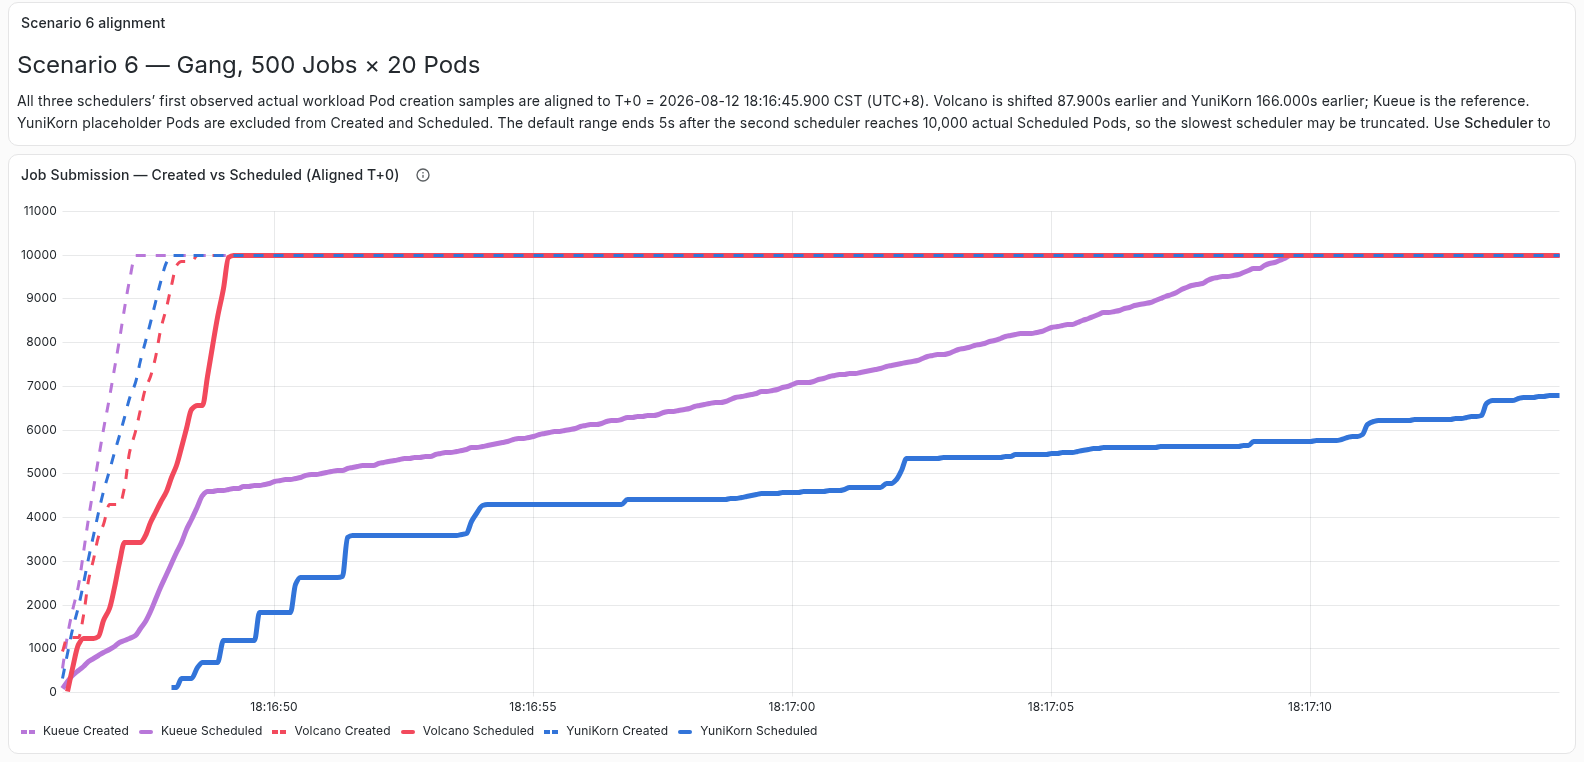
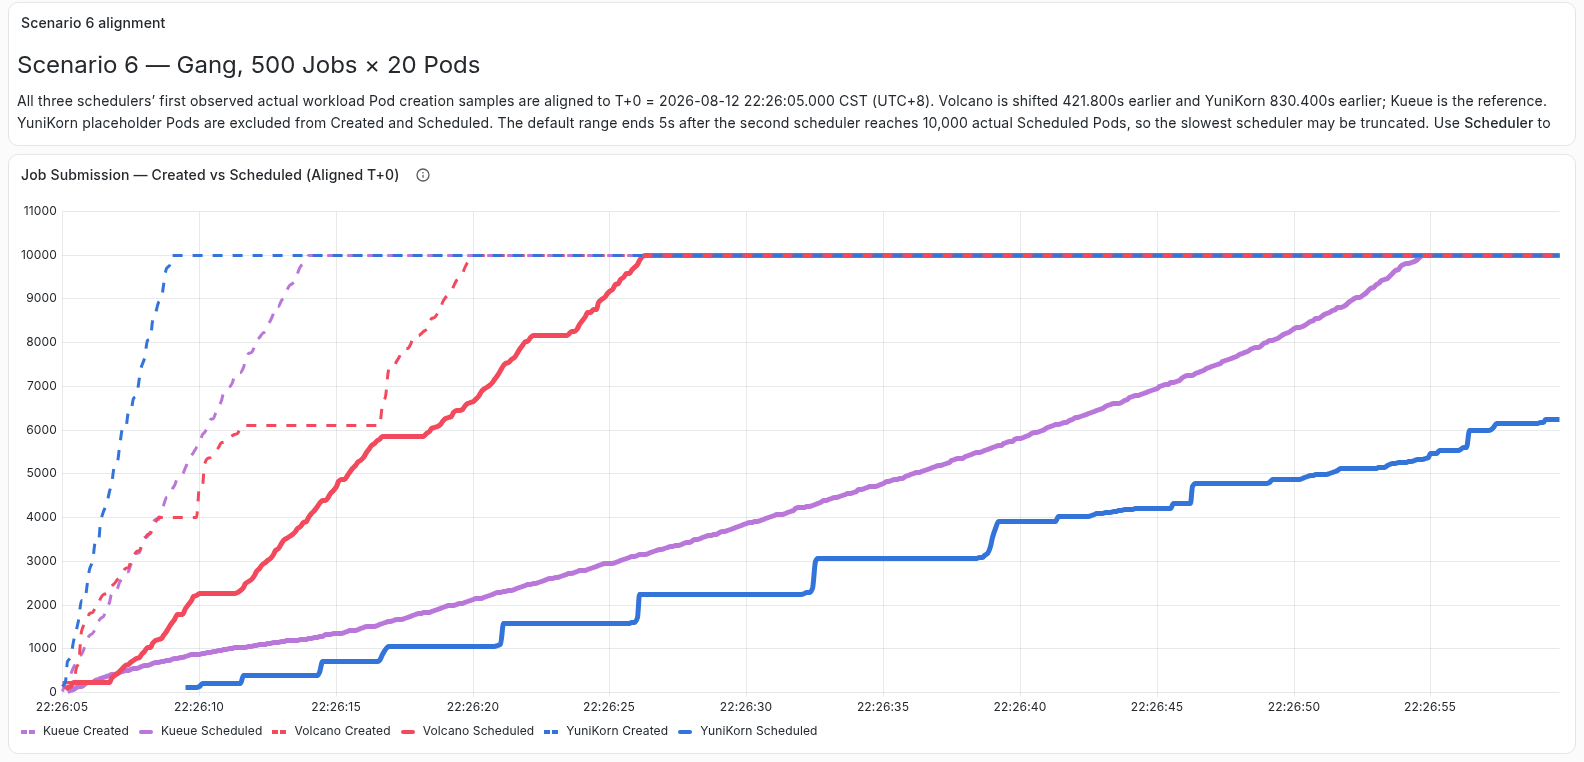
results: full test 081220

diff --git a/full_test_report_081220.md b/full_test_report_081220.md
@@ -1,0 +1,34 @@
+# 完整性测试报告（通过）
+
+## 1. 执行概要
+
+- 测试 Commit：`92bbc9fa91f529d3104aa0967a17de489195fef4`
+- 命令：`make`（包装脚本随后执行 `make down`）
+- tmux 会话：`full-integrity-20260812205253`
+- CST 开始/结束：`2026-08-12 20:53:49` / `2026-08-12 23:27:32`
+- 精确耗时：`9223086 ms`（`2:33:43.086`）
+- `make` 退出码：`0`；`make down` 退出码：`0`
+- Case：`24/24` TestBatchJob 通过，无失败或超时。
+- 结果目录：`8/8` 均已更新，均包含 `envs.txt` 与 `result-window.txt`。
+- 总体状态：通过。
+
+## 2. 八个场景的时间边界与结果目录
+
+| 场景 | 模式与参数 | CST（UTC+8）时间边界 | 耗时 | 指标时间窗（毫秒） | 结果目录 | 结果 |
+| --- | --- | --- | --- | --- | --- | --- |
+| 1 | 非 Gang；10000×1 | 2026-08-12 20:53:50 ~ 21:04:15 | 10:25 | 1786528021905 ~ 1786528445784 | `results/scenario-1` | 通过 |
+| 2 | 非 Gang；500×20 | 2026-08-12 21:04:15 ~ 21:14:25 | 10:10 | 1786528466183 ~ 1786528735077 | `results/scenario-2` | 通过 |
+| 3 | 非 Gang；20×500 | 2026-08-12 21:14:25 ~ 21:34:40 | 20:15 | 1786528755495 ~ 1786529016968 | `results/scenario-3` | 通过 |
+| 4 | 非 Gang；1×10000 | 2026-08-12 21:34:40 ~ 21:55:16 | 20:36 | 1786529037753 ~ 1786529241165 | `results/scenario-4` | 通过 |
+| 5 | Gang；10000×1 | 2026-08-12 21:55:16 ~ 22:20:23 | 25:07 | 1786529261675 ~ 1786529749765 | `results/scenario-5` | 通过 |
+| 6 | Gang；500×20 | 2026-08-12 22:20:23 ~ 22:41:44 | 21:21 | 1786529770508 ~ 1786530040485 | `results/scenario-6` | 通过 |
+| 7 | Gang；20×500 | 2026-08-12 22:41:44 ~ 23:03:38 | 21:54 | 1786530061409 ~ 1786530346643 | `results/scenario-7` | 通过 |
+| 8 | Gang；1×10000 | 2026-08-12 23:03:38 ~ 23:27:32 | 23:54 | 1786530367207 ~ 1786530774180 | `results/scenario-8` | 通过 |
+
+## 3. 问题说明
+
+未发现影响结论的问题。多次 Audit Exporter 在 apiserver 审计日志重置后重新就绪时间接近五分钟，延长了总耗时；每次均在测试继续前恢复，且没有造成 Case 失败、超时或结果缺失。所有 `job-submission.png` 已生成。
+
+## 4. 最终结论
+
+通过。八个场景均完成，24/24 TestBatchJob 通过；八个结果目录均更新且完整。`make down` 成功执行，常驻调度组件和 Audit Exporter 已恢复至单副本空闲基线。
